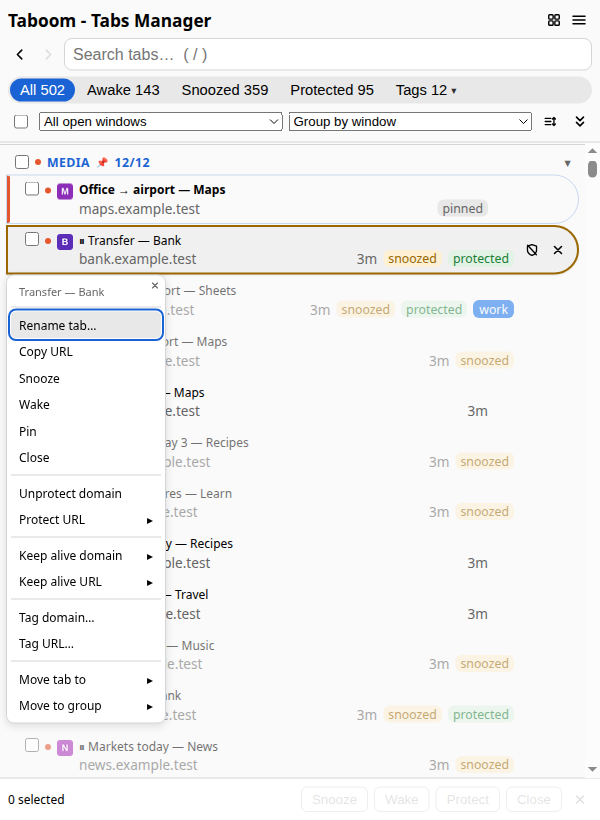
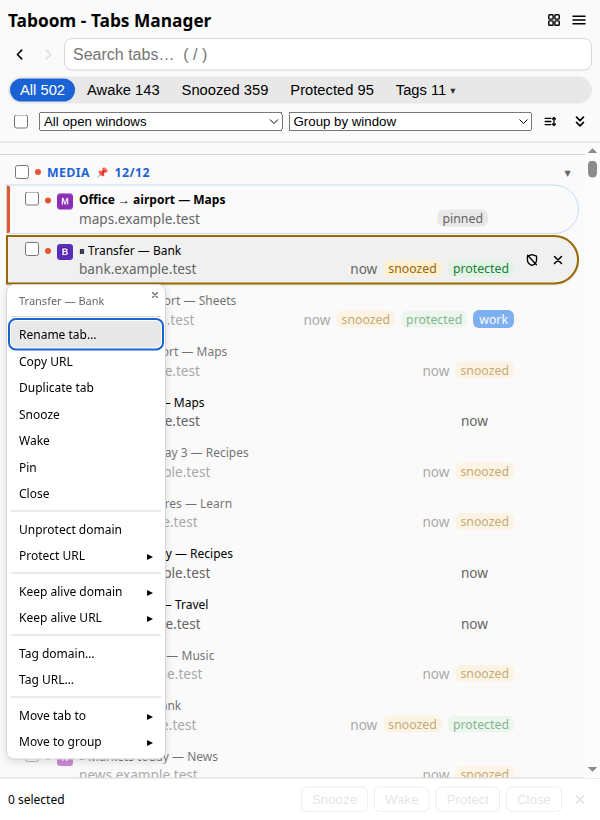
feat: add Duplicate tab functionality

diff --git a/demo/scenes/duplicate-tab.ts b/demo/scenes/duplicate-tab.ts
@@ -1,0 +1,45 @@
+import { highlightText } from "../../src/app/release-highlights.ts";
+import type { Scene } from "./index.ts";
+
+// Duplicate tab from the row menu, by keyboard as the scenes around it: the menu of the cursor
+// row, down to the item, Enter — the browser's own duplicate puts the copy beside the original
+export const duplicateTab: Scene = {
+  id: "duplicate-tab",
+  title: "Duplicate tab from the row menu",
+  feature: highlightText("1.1.1", "duplicate-tab"),
+  settings: "#page-title",
+  newIn: "1.1.1",
+  covers: /duplicate tab/i,
+  async run(stage) {
+    const tabIds = () => stage.panel.evaluate(async () => (await chrome.tabs.query({})).map((tab) => tab.id ?? -1));
+    await stage.caption(`${stage.release} — a copy of a tab without leaving the panel`, 1800);
+    await stage.click(stage.panel.locator("#search"));
+    await stage.press("ArrowDown");
+    await stage.press("ArrowDown");
+    await stage.caption("A row's menu — right-click, or Shift+F10 on the cursor row", 600);
+    await stage.press("Shift+F10");
+    await stage.pause(600);
+    const before = await tabIds();
+    for (let step = 0; step < 6; step++) {
+      const onDuplicate = await stage.panel.evaluate(
+        () => document.activeElement?.textContent?.startsWith("Duplicate") === true,
+      );
+      if (onDuplicate) {
+        break;
+      }
+      await stage.press("ArrowDown");
+    }
+    await stage.caption("Duplicate tab, under Copy URL — a selection's menu duplicates every ticked tab", 900);
+    await stage.still("duplicate-tab-menu");
+    await stage.press("Enter");
+    await stage.pause(1200);
+    const copies = (await tabIds()).filter((id) => !before.includes(id));
+    stage.check(copies.length === 1, "duplicate-tab: Duplicate tab made no copy");
+    await stage.caption("The copy opens beside the original, in the same window and group", 1800);
+    // the copy goes again: the scenes after this one count on the world as it was
+    await stage.panel.evaluate((ids) => chrome.tabs.remove(ids), copies);
+    await stage.pause(600);
+    await stage.press("Escape");
+    await stage.caption("", 300);
+  },
+};

diff --git a/tests/pages/sidepanel/sidepanel.ui.test.ts b/tests/pages/sidepanel/sidepanel.ui.test.ts
@@ -1144,6 +1144,7 @@ test("UI - Sidepanel - Right-click row offers move-to-window menu (selection-awa
     [
       ...(TAB_NAMES_ON ? ["Rename tab…"] : []), // a single tab's name, before Copy URL
       "Copy URL",
+      "Duplicate tab",
       "Snooze",
       "Wake",
       "Pin",
@@ -1336,6 +1337,29 @@ test("UI - Sidepanel - Context menu actions act on the clicked tab / whole selec
     "close removes only the clicked tab",
   );
   await new Promise((resolve) => setTimeout(resolve, 200));
+});
+
+test("UI - Sidepanel - Context menu Duplicate tab duplicates the clicked tab / whole selection", async () => {
+  const rowOf = (id: number) => q(document, `.row[data-tab-id="${id}"]`);
+  const menu = byId("ctx-menu");
+  const pick = (label: string) => must(qa(menu, ".ctx-item").find((el) => el.textContent === label)).click();
+  const duplicated = () => calls.filter((call) => call.startsWith("tabs.duplicate"));
+  calls.length = 0;
+  rowOf(1).dispatchEvent(new window.Event("contextmenu", { bubbles: true }));
+  pick("Duplicate tab");
+  await tick();
+  await tick();
+  assert.deepEqual(duplicated(), ["tabs.duplicate 1"], "the clicked tab only");
+
+  byId<HTMLInputElement>("select-all").click();
+  const count = document.querySelectorAll(".row").length;
+  calls.length = 0;
+  rowOf(1).dispatchEvent(new window.Event("contextmenu", { bubbles: true }));
+  pick(`Duplicate ${count} tabs`);
+  await tick();
+  await tick();
+  assert.equal(duplicated().length, count, "one call per selected tab");
+  assert.equal(document.querySelectorAll(".row input:checked").length, 0, "the selection is consumed, as by Pin");
 });
 
 test("UI - Sidepanel - Context menu Copy URL copies the clicked tab / whole selection, keeps the selection", async () => {

diff --git a/src/pages/sidepanel/ops/actions.ts b/src/pages/sidepanel/ops/actions.ts
@@ -113,6 +113,18 @@ export async function pinTabs(tabIds: number[], pinned: boolean): Promise<void> 
   refresh(true);
 }
 
+// Chrome's own duplicate: the copy lands beside the original (same window and group, history kept)
+// and Chrome makes it the active tab — the API offers no background copy there
+export async function duplicateTabs(tabIds: number[]): Promise<void> {
+  const results = await Promise.allSettled(tabIds.map((tabId) => chrome.tabs.duplicate(tabId)));
+  const failed = results.find((result) => result.status === "rejected");
+  if (failed) {
+    toastFailure("duplicate every tab", failed.reason);
+  }
+  unselect(tabIds);
+  refresh(true);
+}
+
 // hours: a temporary rule from the row menu's duration submenu; absent = permanent (T-0157)
 const forHours = (hours: number | undefined) => (hours === undefined ? {} : { hours });
 

diff --git a/src/pages/sidepanel/menus/menus.ts b/src/pages/sidepanel/menus/menus.ts
@@ -22,6 +22,7 @@ import {
   actionIds,
   closeTabs,
   copyUrls,
+  duplicateTabs,
   keepAlive,
   pinTabs,
   protectTabs,
@@ -163,6 +164,7 @@ export function openRowMenu(event: MouseEvent, tabId: number): void {
     ctxAppend(ctxItem("Rename tab…", () => renameTab(tabId)));
   }
   ctxAppend(ctxItem(ids.length > 1 ? `Copy ${ids.length} URLs` : "Copy URL", () => copyUrls(ids)));
+  ctxAppend(ctxItem(ids.length > 1 ? `Duplicate ${ids.length} tabs` : "Duplicate tab", () => duplicateTabs(ids)));
   appendCtxActions(ids);
   // single tab only: one right-click over a big selection must never mark hundreds
   // of pages for periodic reloads (bulk unmark goes through Settings)

diff --git a/src/app/release-highlights.ts b/src/app/release-highlights.ts
@@ -23,7 +23,10 @@ export const GROUP_HIGHLIGHTS: boolean = false;
 export const VISIBLE_HIGHLIGHTS_RELEASES: readonly string[] = ["1.1.1", "1.1.0"];
 
 export const RELEASE_HIGHLIGHTS: Readonly<Record<string, readonly ReleaseHighlight[]>> = {
-  "1.1.1": [{ key: "keyboard-select", text: "Select and filter from the keyboard" }],
+  "1.1.1": [
+    { key: "keyboard-select", text: "Select and filter from the keyboard" },
+    { key: "duplicate-tab", text: "Duplicate tab" },
+  ],
   "1.1.0": [
     { key: "tab-names", text: "Custom Tab Names" },
     { key: "temporary-protection", text: "Temporary protection or keep-alive" },

diff --git a/demo/scenes/index.ts b/demo/scenes/index.ts
@@ -5,6 +5,7 @@ import { duplicates, snoozeProtect } from "./actions.ts";
 import { grouping } from "./grouping.ts";
 import { keepAliveDomain } from "./keep-alive.ts";
 import { keyboardMenu } from "./keyboard-menu.ts";
+import { duplicateTab } from "./duplicate-tab.ts";
 import { keyboardSelect } from "./keyboard-select.ts";
 import { settingsReorder } from "./reorder.ts";
 import { tabNames } from "./tab-names.ts";
@@ -43,6 +44,7 @@ export const SCENES: Scene[] = [
   tagFragment,
   keyboardMenu,
   keyboardSelect,
+  duplicateTab,
   settingsTabs,
   sharedView,
   snoozeNow,

diff --git a/tests/helpers/chrome-mock.ts b/tests/helpers/chrome-mock.ts
@@ -122,6 +122,8 @@ export function makeChrome<
       },
       remove: async (ids: number | number[]) => calls.push(`tabs.remove ${list(ids)}`),
       reload: async (id: number) => calls.push(`tabs.reload ${id}`),
+      duplicate: async (id: number) => calls.push(`tabs.duplicate ${id}`), // log only, like remove: the tab list stays
+
       move: async (ids: number | number[], props?: chrome.tabs.MoveProperties) => {
         calls.push(`tabs.move ${list(ids)} ${JSON.stringify(props ?? {})}`);
         for (const id of list(ids)) {

diff --git a/docs/USAGE.md b/docs/USAGE.md
@@ -55,7 +55,7 @@ Panel position (left or right) is a global Chrome setting: `chrome://settings/ap
 - **Row click** — focuses the window and activates the tab (snoozed tabs reload).
 - **Visual states** — each window's active tab has an accent left edge + bold title; snoozed tabs are dimmed with a ⏸ title prefix and `SNOOZED` badge; a tab playing audio carries a 🔊 right after its host on the second line (the host shortens with … before the icon ever drops out). Hovering a row shows its full address, under it its state badges in their colors (snoozed, protected, kept alive, pinned, 🔊) and, when it has tags, a **Tags:** line of colored pills. A rule or mark made for a while (the row menu's duration submenu) shows as *temporary protected* / *temporary keep alive*, and the tip's badge carries the time left (`temporary keep alive · 2d 3h left`); once a permanent rule covers the tab too, the plain badge is back. A tag switched off in Settings (the tag itself or the rule giving it), a protection rule with its **On** box unticked and a paused keep-alive mark still show — struck through, on the row and in the tip (the tags on their own **Disabled tags:** line under the live **Tags:** line) — while **Settings → Customizations → Show disabled tags, disabled protected sites and paused keep-alive marks in the side panel** is on (the default); untick it and they are hidden until switched on again.
 - **Hover actions** — ⏸ snooze, 🛡 protect/unprotect site, ✕ close.
-- **Right-click** — a row, a window header or a tab-group header opens its menu. In a panel whose window is not in front, the first right-click only brings that window forward; right-click again for the menu.
+- **Right-click** — a row, a window header or a tab-group header opens its menu. A row's menu has **Duplicate tab** under **Copy URL** (**Duplicate N tabs** over a selection): the browser's own duplicate — the copy opens beside the original, in the same window and tab group, with its history, and the browser switches to it. In a panel whose window is not in front, the first right-click only brings that window forward; right-click again for the menu.
 - **Checkboxes** — select several tabs, then bulk Snooze / Protect / Close from the bottom bar. Closing more than one tab asks for confirmation.
 - **Quick launch (▦)** — a popover headed **Quick launch** with a **Close** button (like the ☰ menu), then one view per thing worth switching between, each a tab with its count: **Windows** (only with two or more windows, or a parked one), **Groups** (only once a group exists — the first one comes from a row's **Move to group ▸ New group…**; the view's own **+ New group…** row adds more), **Pins**, **Tags**, **Alive** and **Dupes** (only while they have members). A single view shows as a heading; with nothing at all (one window, nothing else) the ▦ button is greyed out.
 - **Quick actions (☰)** — top-right menu (opening it closes any other popup: quick launch, history list, a dropdown): **Open Settings**, **Snooze inactive tabs now** (snoozes every tab the automatic-snooze rules allow, ignoring the inactivity threshold; the toast says how many), **Cleanup Duplicates (N)**, which runs *There can be only one* over every duplicated page at once (N = tabs it would close; greyed out when nothing is duplicated; confirmed first), and **Undo last remove in Parked windows**.
